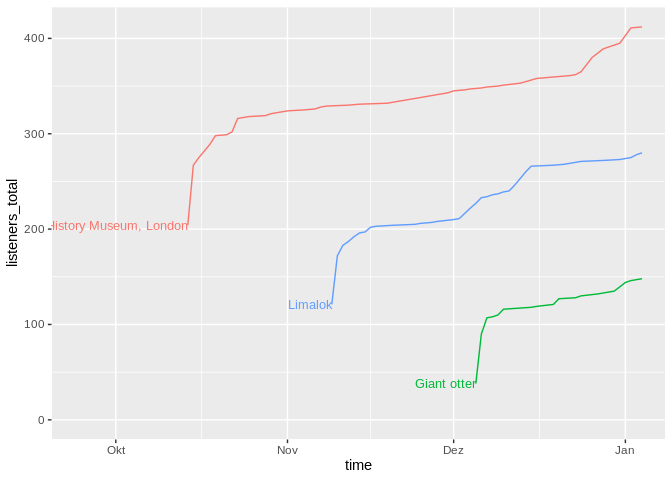
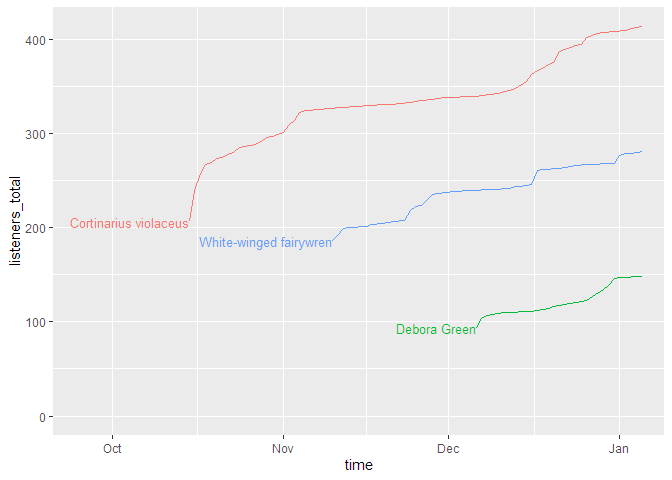
performance_plots: update vignette & readme

diff --git a/README.md b/README.md
@@ -133,7 +133,7 @@ hoster. Check your hoster’s support section on how to do this.)
 Finally, you might need to check if the **tables name prefix** in your
 Wordpress database corresponds to the usual naming conventions. Most
 Wordpress installations start the tables with `wp_`, but sometimes, this
-prefix differs (e.g. `wp_wtig_`). For starters, you can just try to use
+prefix differs (e.g. `wp_wtig_`). For starters, you can just try to use
 the default prefix built into the function. If the prefix is different
 than the default, you will get an error message. If that’s the case,
 access your hoster’s MySQL management tool (e.g. phpMyAdmin, PHP
@@ -272,20 +272,20 @@ input tables.
 Here it is:
 
     print(downloads)
-    #> # A tibble: 9,907 x 20
-    #>    ep_number title ep_num_title duration                  post_date 
-    #>    <chr>     <chr> <chr>        <Duration>                <date>    
-    #>  1 01        Port… 01: Portrai… 1641.22s (~27.35 minutes) 2019-01-01
-    #>  2 01        Port… 01: Portrai… 1641.22s (~27.35 minutes) 2019-01-01
-    #>  3 01        Port… 01: Portrai… 1641.22s (~27.35 minutes) 2019-01-01
-    #>  4 01        Port… 01: Portrai… 1641.22s (~27.35 minutes) 2019-01-01
-    #>  5 01        Port… 01: Portrai… 1641.22s (~27.35 minutes) 2019-01-01
-    #>  6 01        Port… 01: Portrai… 1641.22s (~27.35 minutes) 2019-01-01
-    #>  7 01        Port… 01: Portrai… 1641.22s (~27.35 minutes) 2019-01-01
-    #>  8 01        Port… 01: Portrai… 1641.22s (~27.35 minutes) 2019-01-01
-    #>  9 01        Port… 01: Portrai… 1641.22s (~27.35 minutes) 2019-01-01
-    #> 10 01        Port… 01: Portrai… 1641.22s (~27.35 minutes) 2019-01-01
-    #> # … with 9,897 more rows, and 15 more variables: post_datehour <dttm>,
+    #> # A tibble: 9,116 x 20
+    #>    ep_number title ep_num_title duration                   post_date 
+    #>    <chr>     <chr> <chr>        <Duration>                 <date>    
+    #>  1 01        Asht~ 01: Ashton-~ 1948.105s (~32.47 minutes) 2019-01-01
+    #>  2 01        Asht~ 01: Ashton-~ 1948.105s (~32.47 minutes) 2019-01-01
+    #>  3 01        Asht~ 01: Ashton-~ 1948.105s (~32.47 minutes) 2019-01-01
+    #>  4 01        Asht~ 01: Ashton-~ 1948.105s (~32.47 minutes) 2019-01-01
+    #>  5 01        Asht~ 01: Ashton-~ 1948.105s (~32.47 minutes) 2019-01-01
+    #>  6 01        Asht~ 01: Ashton-~ 1948.105s (~32.47 minutes) 2019-01-01
+    #>  7 01        Asht~ 01: Ashton-~ 1948.105s (~32.47 minutes) 2019-01-01
+    #>  8 01        Asht~ 01: Ashton-~ 1948.105s (~32.47 minutes) 2019-01-01
+    #>  9 01        Asht~ 01: Ashton-~ 1948.105s (~32.47 minutes) 2019-01-01
+    #> 10 01        Asht~ 01: Ashton-~ 1948.105s (~32.47 minutes) 2019-01-01
+    #> # ... with 9,106 more rows, and 15 more variables: post_datehour <dttm>,
     #> #   ep_age_hours <dbl>, ep_age_days <dbl>, hours_since_release <dbl>,
     #> #   days_since_release <dbl>, source <chr>, context <chr>, dldate <date>,
     #> #   dldatehour <dttm>, weekday <ord>, hour <int>, client_name <chr>,
@@ -327,13 +327,13 @@ the data:
     #> Total runtime:  11m 4d 22H 0M 0S.
     #> Average time between episodes: 2928240s (~4.84 weeks).
     #> 
-    #> Episodes were downloaded 9907 times between 2019-01-01 and 2020-01-04.
+    #> Episodes were downloaded 9116 times between 2019-01-01 and 2020-01-04.
     #> 
-    #> Downloads per episode: 990.7
-    #> min: 148 | 25p: 412 | med: 1069.5 | 75p: 1463 | max: 1861
+    #> Downloads per episode: 911.6
+    #> min: 148 | 25p: 413 | med: 872 | 75p: 1330 | max: 1859
     #> 
-    #> Downloads per day: 26.9
-    #> min: 1 | 25p: 4 | med: 9 | 75p: 16 | max: 1095
+    #> Downloads per day: 24.7
+    #> min: 1 | 25p: 3 | med: 7 | 75p: 16 | max: 1095
     #> NULL
 
 If you set the parameter `return_params` to `TRUE`, you can access the
@@ -351,7 +351,7 @@ want to see the printed summary.
     #> [11] "downloads_per_day_mean"     "downloads_per_day_5num"
 
     pod_sum$n_downloads
-    #> [1] 9907
+    #> [1] 9116
     pod_sum$dl_last_date
     #> [1] "2020-01-04 22:00:00 UTC"
 
@@ -375,14 +375,14 @@ function (which is based on the `ggplo2` package) helps you do that.
     -   `ep_number`: The episode’s official number
     -   `title`: The episode’s title
     -   `ep_num_title`: The episode’s title with the number in front
-    -   `source`: The dowload source - e.g. “feed” for RSS, “webplayer”
+    -   `source`: The dowload source - e.g. “feed” for RSS, “webplayer”
         for plays on a website, “download” for file downloads
     -   `context`: The file type for feeds and downloads, “episode” for
         feed accesses
     -   `client_name`: The client application (e.g. the podcatcher’s or
         brower’s name)
-    -   `client_type`: A more coarse grouping of the clients, e.g.
-        “mediaplayer”, “browser”, “mobile app”.
+    -   `client_type`: A more coarse grouping of the clients,
+        e.g. “mediaplayer”, “browser”, “mobile app”.
     -   `os_name`: The operating system’s name of the client
         (e.g. Android, Linux, Mac)
     -   Any other grouping variable you create yourself from the
@@ -416,8 +416,9 @@ dates).
                                     cumulative = TRUE, 
                                     plot_type = "line",
                                     printout = FALSE)
-    #> Scale for 'x' is already present. Adding another scale for 'x', which will
-    #> replace the existing scale.
+    #> Warning in podlove_plot_curves(dldata = downloads, hourly = FALSE, relative =
+    #> FALSE, : option 'hourly' is depreciated. Use option 'time_unit' instead.
+    #> Warning: Ignoring unknown parameters: hourly
 
     print(g_tdlacc)
 
@@ -432,8 +433,9 @@ episode launches:
                                   cumulative = FALSE, 
                                   plot_type = "line",
                                   printout = FALSE)
-    #> Scale for 'x' is already present. Adding another scale for 'x', which will
-    #> replace the existing scale.
+    #> Warning in podlove_plot_curves(dldata = downloads, hourly = FALSE, relative =
+    #> FALSE, : option 'hourly' is depreciated. Use option 'time_unit' instead.
+    #> Warning: Ignoring unknown parameters: hourly
 
     print(g_tdl)
 
@@ -456,8 +458,9 @@ labels at the beginning of the curves.
                                        plot_type = "line",
                                        labelmethod = "first.points",
                                        printout = FALSE)
-    #> Scale for 'x' is already present. Adding another scale for 'x', which will
-    #> replace the existing scale.
+    #> Warning in podlove_plot_curves(dldata = downloads, gvar = title, hourly =
+    #> FALSE, : option 'hourly' is depreciated. Use option 'time_unit' instead.
+    #> Warning: Ignoring unknown parameters: hourly
 
     print(g_ep_dlsacc)
 
@@ -478,8 +481,9 @@ better for this kind of curve.
                                        plot_type = "line",
                                        labelmethod = "last.points",
                                        printout = FALSE)
-    #> Scale for 'x' is already present. Adding another scale for 'x', which will
-    #> replace the existing scale.
+    #> Warning in podlove_plot_curves(dldata = downloads, gvar = title, hourly =
+    #> FALSE, : option 'hourly' is depreciated. Use option 'time_unit' instead.
+    #> Warning: Ignoring unknown parameters: hourly
 
     print(g_ep_dlsaccrel)
 
@@ -497,6 +501,9 @@ don’t have too many episodes):
                                        cumulative = FALSE, # no cumulation
                                        plot_type = "ridge", # use a ridgeline plot
                                        printout = FALSE)
+    #> Warning in podlove_plot_curves(dldata = downloads, gvar = ep_num_title, : option
+    #> 'hourly' is depreciated. Use option 'time_unit' instead.
+    #> Warning: Ignoring unknown parameters: hourly
 
     print(g_ep_dls)
 
@@ -518,8 +525,9 @@ our listeners get their episodes. The labelmethod here is set to
                                     plot_type = "line", 
                                     labelmethod = "angled.boxes", #looks nice
                                     printout = FALSE)
-    #> Scale for 'x' is already present. Adding another scale for 'x', which will
-    #> replace the existing scale.
+    #> Warning in podlove_plot_curves(dldata = downloads, gvar = source, hourly =
+    #> FALSE, : option 'hourly' is depreciated. Use option 'time_unit' instead.
+    #> Warning: Ignoring unknown parameters: hourly
 
     print(g_source_acc)
 
@@ -558,8 +566,6 @@ episodes hadn’t.
 
     # plot the downloads with your new variable "guest"
     podlove_plot_curves(downloads_with_guests, gvar = guest, printout = FALSE)
-    #> Scale for 'x' is already present. Adding another scale for 'x', which will
-    #> replace the existing scale.
 
 ![](README_files/figure-markdown_strict/unnamed-chunk-15-1.png)
 
@@ -579,8 +585,10 @@ to read. To reduce the number of curves, you can use the parameter
                                        labelmethod = "first.points",
                                        printout = FALSE,
                                        last_n = 3)
-    #> Selecting by ep_rankScale for 'x' is already present. Adding another scale for 'x', which will
-    #> replace the existing scale.
+    #> Warning in podlove_plot_curves(dldata = downloads, gvar = title, hourly =
+    #> FALSE, : option 'hourly' is depreciated. Use option 'time_unit' instead.
+    #> Selecting by ep_rank
+    #> Warning: Ignoring unknown parameters: hourly
 
     print(g_ep_dlsacc_red)
 
@@ -607,24 +615,26 @@ don’t have to be the same. Here, we’ll use 0-3 days for the launch and
     perf <- podlove_performance_stats(downloads, launch = 3, post_launch = 30)
 
     perf
-    #> # A tibble: 10 x 5
-    #>    title                   dls dls_per_day dls_per_day_at_la… dls_per_day_after…
-    #>    <chr>                 <int>       <dbl>              <dbl>              <dbl>
-    #>  1 Bruce Castle           1202        5.04              236               1.43  
-    #>  2 Castle                  674        5.02              163.              1.35  
-    #>  3 Ceilings of the Natu…   412        5.02              105               0.998 
-    #>  4 Construction of Rock…  1599        5.05              368.              1.36  
-    #>  5 Duke University        1463        5.03              309.              1.24  
-    #>  6 Giant otter             148        4.93               50.8             0.0333
-    #>  7 Jerome, Arizona         937        5.03              207               1.21  
-    #>  8 Limalok                 280        5.00               71.2             0.785 
-    #>  9 Portrait of Maria Po…  1861        5.04              404.              1.43  
-    #> 10 Robert Garran          1331        5.03              297.              1.17
+    #> # A tibble: 10 x 7
+    #>    ep_number title ep_num_title   dls dls_per_day dls_per_day_at_~
+    #>    <chr>     <chr> <chr>        <int>       <dbl>            <dbl>
+    #>  1 01        Asht~ 01: Ashton-~  1859        5.04            404. 
+    #>  2 02        Mary~ 02: Mary To~  1727        5.04            359. 
+    #>  3 03        Sama~ 03: Samanth~  1330        5.03            366. 
+    #>  4 04        Shap~ 04: Shapins~  1072        5.05            233. 
+    #>  5 05        Gwoy~ 05: Gwoyeu ~   936        5.02            184. 
+    #>  6 06        Acut~ 06: Acute m~   808        5.04            177. 
+    #>  7 07        Ficu~ 07: Ficus a~   542        5.01            114. 
+    #>  8 08        Cort~ 08: Cortina~   413        5.03             88.2
+    #>  9 09        Whit~ 09: White-w~   281        5.01             83.8
+    #> 10 10        Debo~ 10: Debora ~   148        4.93             45.9
+    #> # ... with 1 more variable: dls_per_day_after_launch <dbl>
 
     colnames(perf)
-    #> [1] "title"                    "dls"                     
-    #> [3] "dls_per_day"              "dls_per_day_at_launch"   
-    #> [5] "dls_per_day_after_launch"
+    #> [1] "ep_number"                "title"                   
+    #> [3] "ep_num_title"             "dls"                     
+    #> [5] "dls_per_day"              "dls_per_day_at_launch"   
+    #> [7] "dls_per_day_after_launch"
 
 The table shows four values per episode: The overall downlaods, the
 overall average downloads, the average downloads during the launch and
@@ -635,18 +645,18 @@ a ranking of the best launches, you can just sort the list:
       dplyr::select(title, dls_per_day_at_launch) %>% 
       dplyr::arrange(desc(dls_per_day_at_launch))
     #> # A tibble: 10 x 2
-    #>    title                                          dls_per_day_at_launch
-    #>    <chr>                                                          <dbl>
-    #>  1 Portrait of Maria Portinari                                    404. 
-    #>  2 Construction of Rockefeller Center                             368. 
-    #>  3 Duke University                                                309. 
-    #>  4 Robert Garran                                                  297. 
-    #>  5 Bruce Castle                                                   236  
-    #>  6 Jerome, Arizona                                                207  
-    #>  7 Castle                                                         163. 
-    #>  8 Ceilings of the Natural History Museum, London                 105  
-    #>  9 Limalok                                                         71.2
-    #> 10 Giant otter                                                     50.8
+    #>    title                  dls_per_day_at_launch
+    #>    <chr>                                  <dbl>
+    #>  1 Ashton-under-Lyne                      404. 
+    #>  2 Samantha Smith                         366. 
+    #>  3 Mary Toft                              359. 
+    #>  4 Shapinsay                              233. 
+    #>  5 Gwoyeu Romatzyh                        184. 
+    #>  6 Acute myeloid leukemia                 177. 
+    #>  7 Ficus aurea                            114. 
+    #>  8 Cortinarius violaceus                   88.2
+    #>  9 White-winged fairywren                  83.8
+    #> 10 Debora Green                            45.9
 
 So there are episodes with different launches strengths long-term
 performance. Can you plot them against each other? Yes, you can! The
@@ -657,7 +667,7 @@ with strong launches and loss of interest over time, the bottom right
 shows “slow burners” which took a while to get an audience, and the
 bottom left is showing… well, the rest.
 
-    g_perf <- podlove_graph_performance(perf, printout = FALSE)
+    g_perf <- podlove_graph_performance(perf, label = title, printout = FALSE)
 
     print(g_perf)
 
@@ -666,7 +676,7 @@ bottom left is showing… well, the rest.
 Or, if you want to skip the step of generating data and just get the
 plot, use the wrapper function `podlove_plot_performance()`:
 
-    podlove_plot_performance(dldata = downloads, launch = 3, post_launch = 30)
+    podlove_plot_performance(dldata = downloads, launch = 3, label = title, post_launch = 30)
 
 Regression Analysis: Is your podcast gaining or losing listeners?
 -----------------------------------------------------------------
@@ -710,18 +720,18 @@ With the option `print_model`, you can display the model results:
     #> 
     #> Residuals:
     #>     Min      1Q  Median      3Q     Max 
-    #> -65.188 -37.150  -2.358  37.727  73.473 
+    #> -81.218 -36.058  -4.682  41.853  81.424 
     #> 
     #> Coefficients:
     #>             Estimate Std. Error t value Pr(>|t|)    
-    #> (Intercept) 1499.867     35.100   42.73 9.92e-11 ***
-    #> ep_rank     -138.085      5.657  -24.41 8.47e-09 ***
+    #> (Intercept) 1397.933     39.849   35.08 4.77e-10 ***
+    #> ep_rank     -131.679      6.422  -20.50 3.35e-08 ***
     #> ---
     #> Signif. codes:  0 '***' 0.001 '**' 0.01 '*' 0.05 '.' 0.1 ' ' 1
     #> 
-    #> Residual standard error: 51.38 on 8 degrees of freedom
-    #> Multiple R-squared:  0.9868, Adjusted R-squared:  0.9851 
-    #> F-statistic: 595.9 on 1 and 8 DF,  p-value: 8.468e-09
+    #> Residual standard error: 58.33 on 8 degrees of freedom
+    #> Multiple R-squared:  0.9813, Adjusted R-squared:  0.979 
+    #> F-statistic: 420.4 on 1 and 8 DF,  p-value: 3.35e-08
 
 The option `print_plot` shows the plot (which is also saved in the
 object `reg`):
